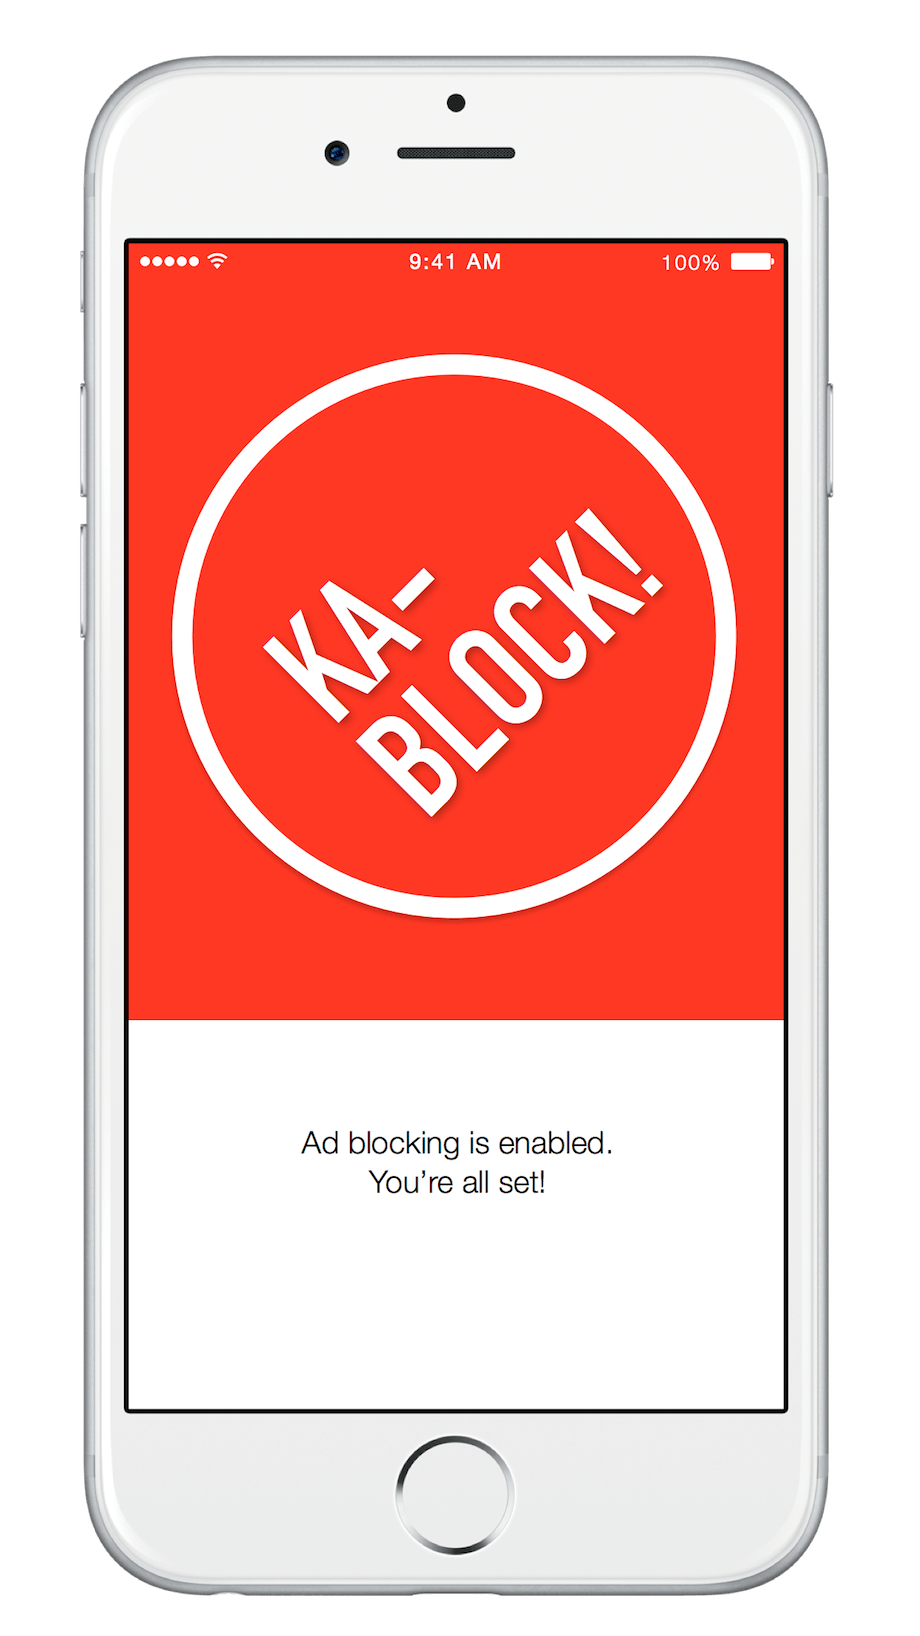
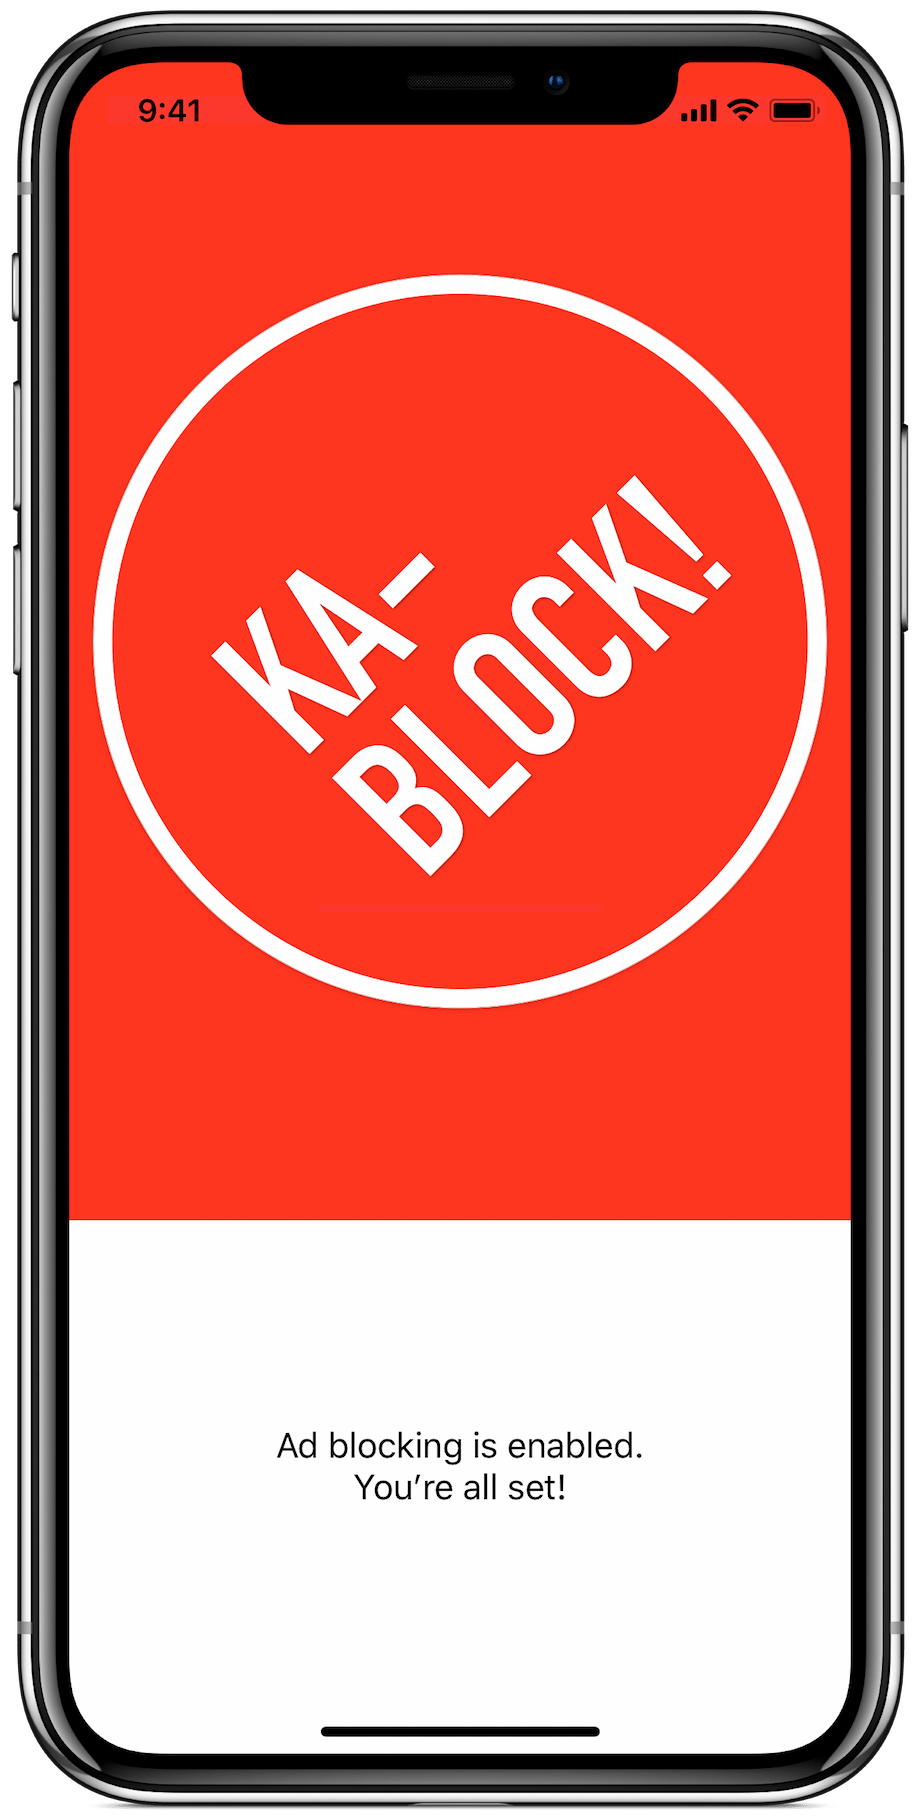
Update hero shot to iPhone X

diff --git a/stylesheets/stylesheet.css b/stylesheets/stylesheet.css
@@ -115,7 +115,7 @@ a:hover {
 
 .download-block {
   box-shadow: 0 -2px 5px rgba(0, 0, 0, 0.1);
-  margin-top: -18rem;
+  margin-top: -14rem;
   padding: 3rem 0;
   text-align: center;
 }
